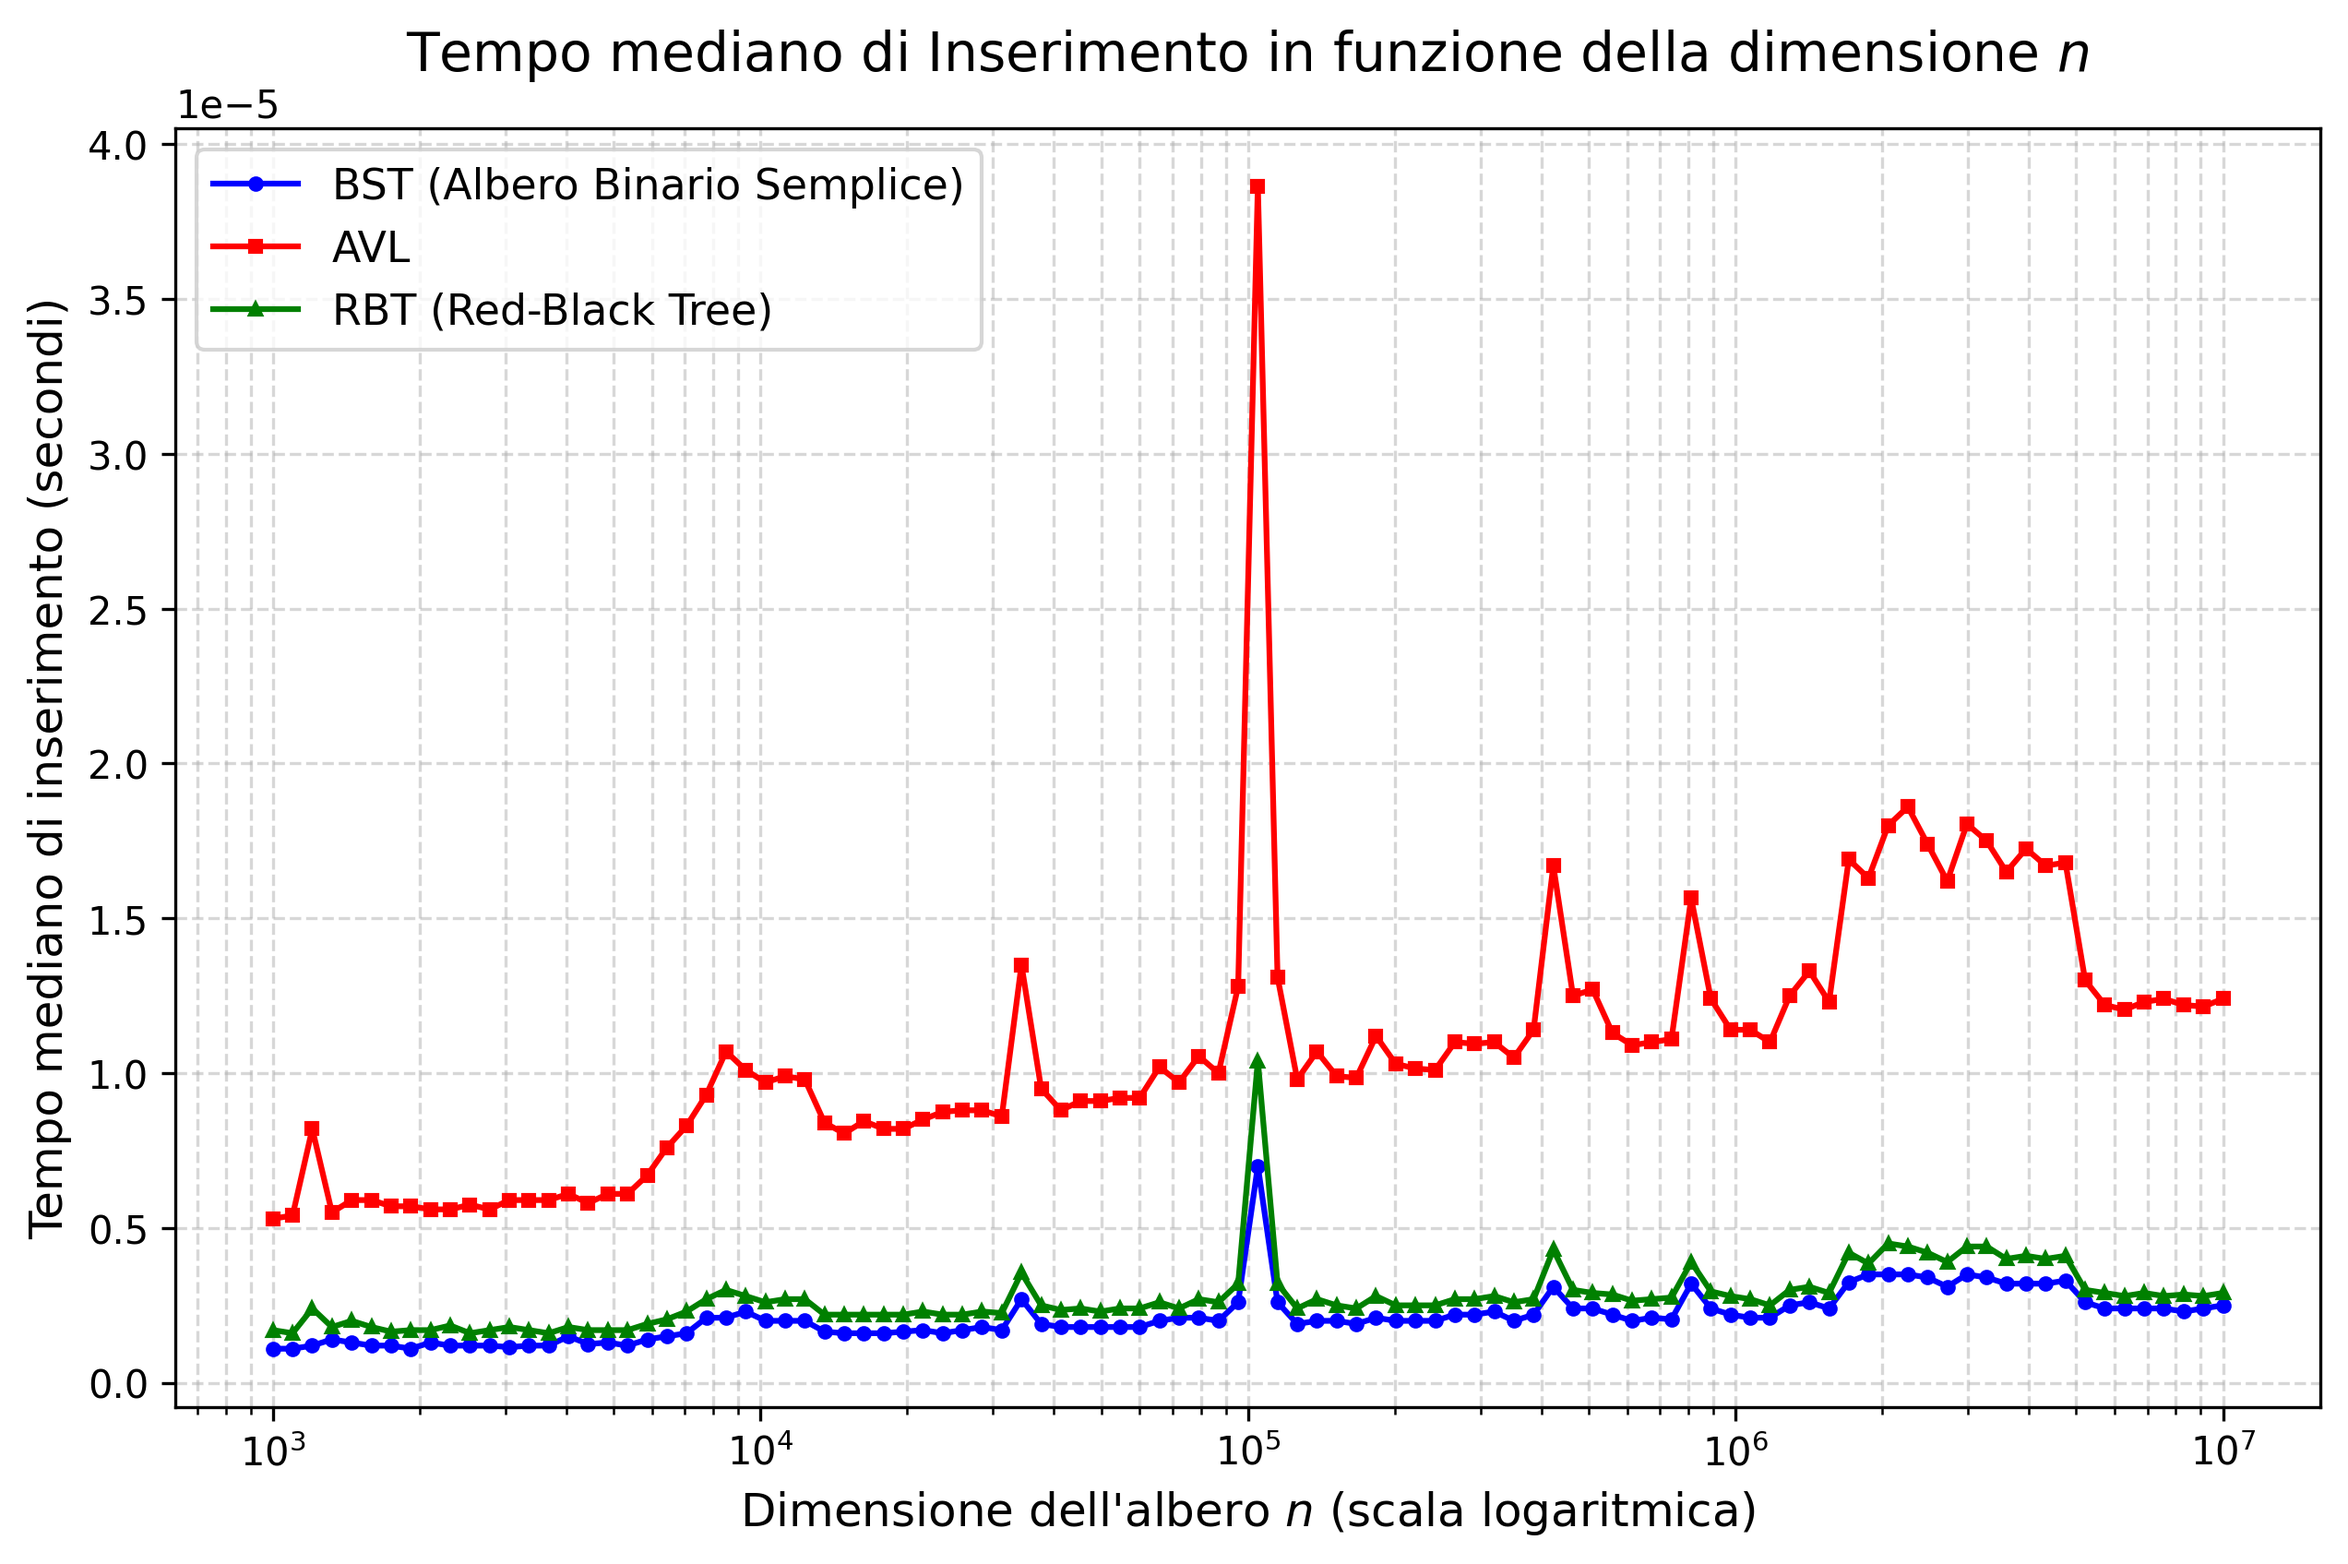
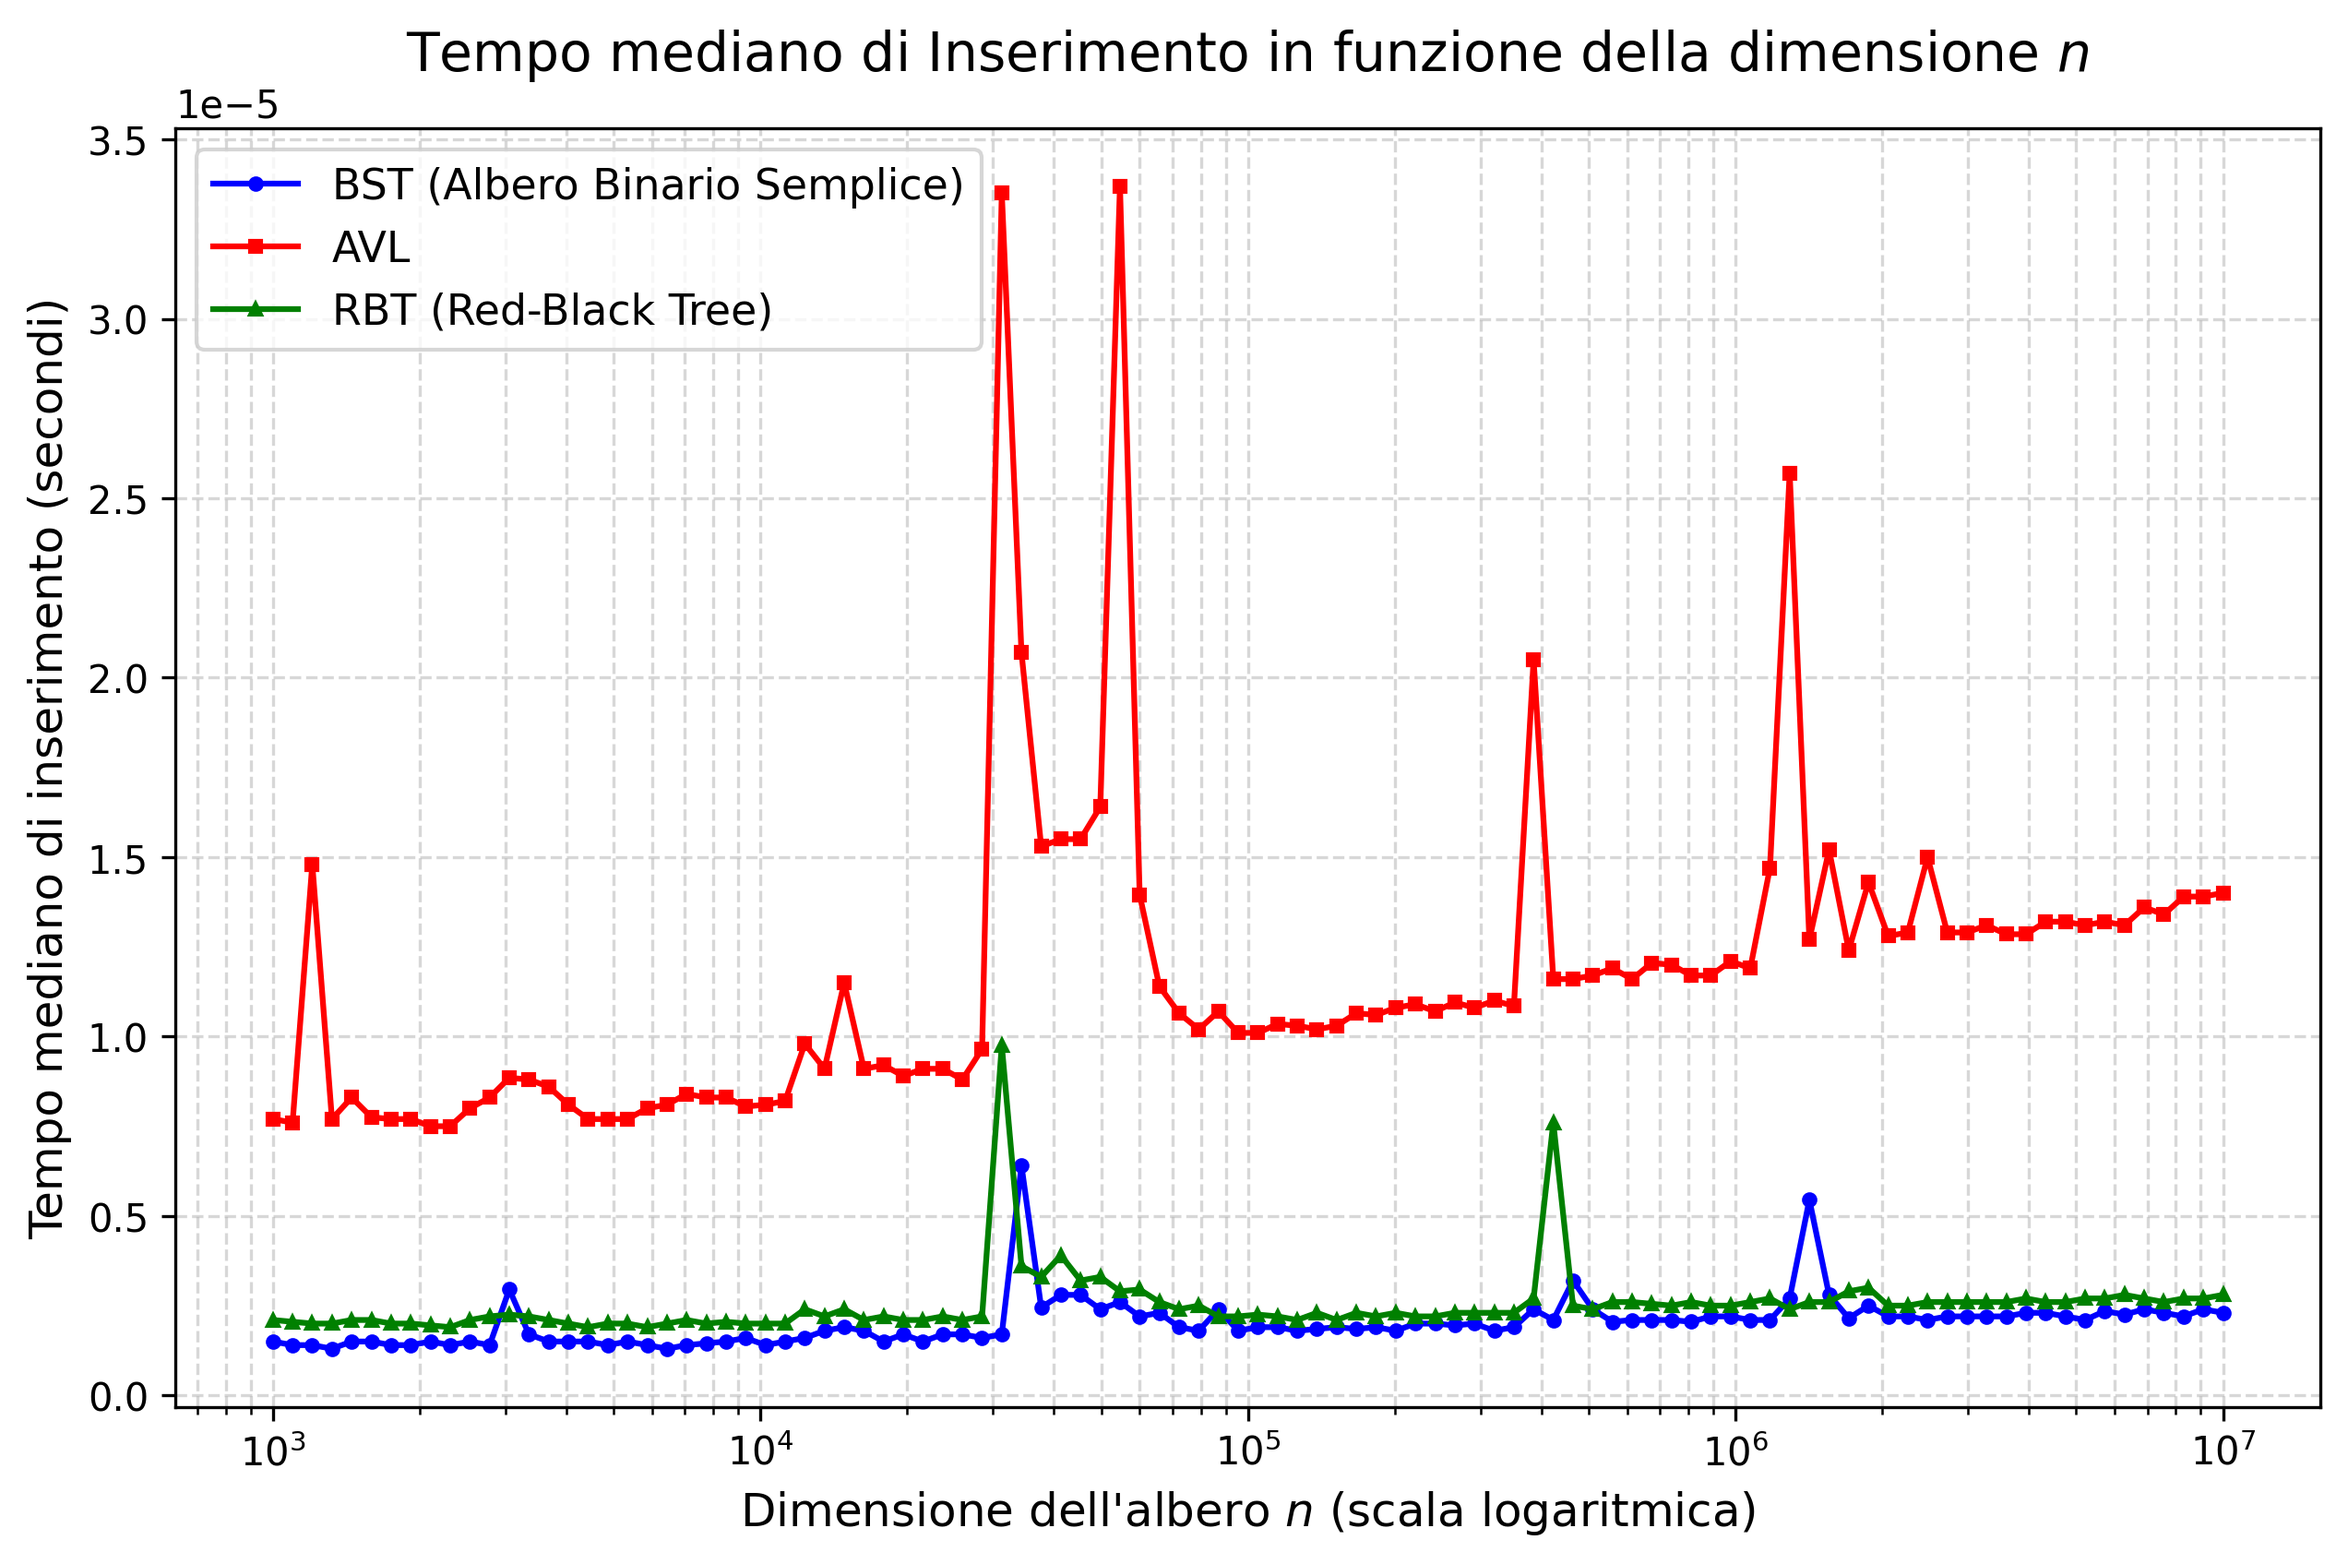
made another test on main and graph files

diff --git a/BST/bst.py b/BST/bst.py
@@ -51,7 +51,7 @@ class BST:                  # represents a binary search tree data structure
             # Case 1: right subtree isnt' NIL, suc is minimum of that tree
             if node.right != None:
                 return self.min(node.right)
-            # Case 2: right subtree is NIl, suc is one of the ancestors
+            # Case 2: right subtree is NIL,  suc is one of the ancestors
             else:
                 y = node.parent
                 while y != None and node != y.left:

diff --git a/RBT/rbt.py b/RBT/rbt.py
@@ -107,7 +107,7 @@ class RBTree(BST):
             y.left.parent = y
             self._set_color(y, self._get_color(node))   
         
-        # rebalance tree is black node was removed
+        # rebalance tree if black node was removed
         if y_original_color == "black":
             self._fix_remove(x, p)
 
